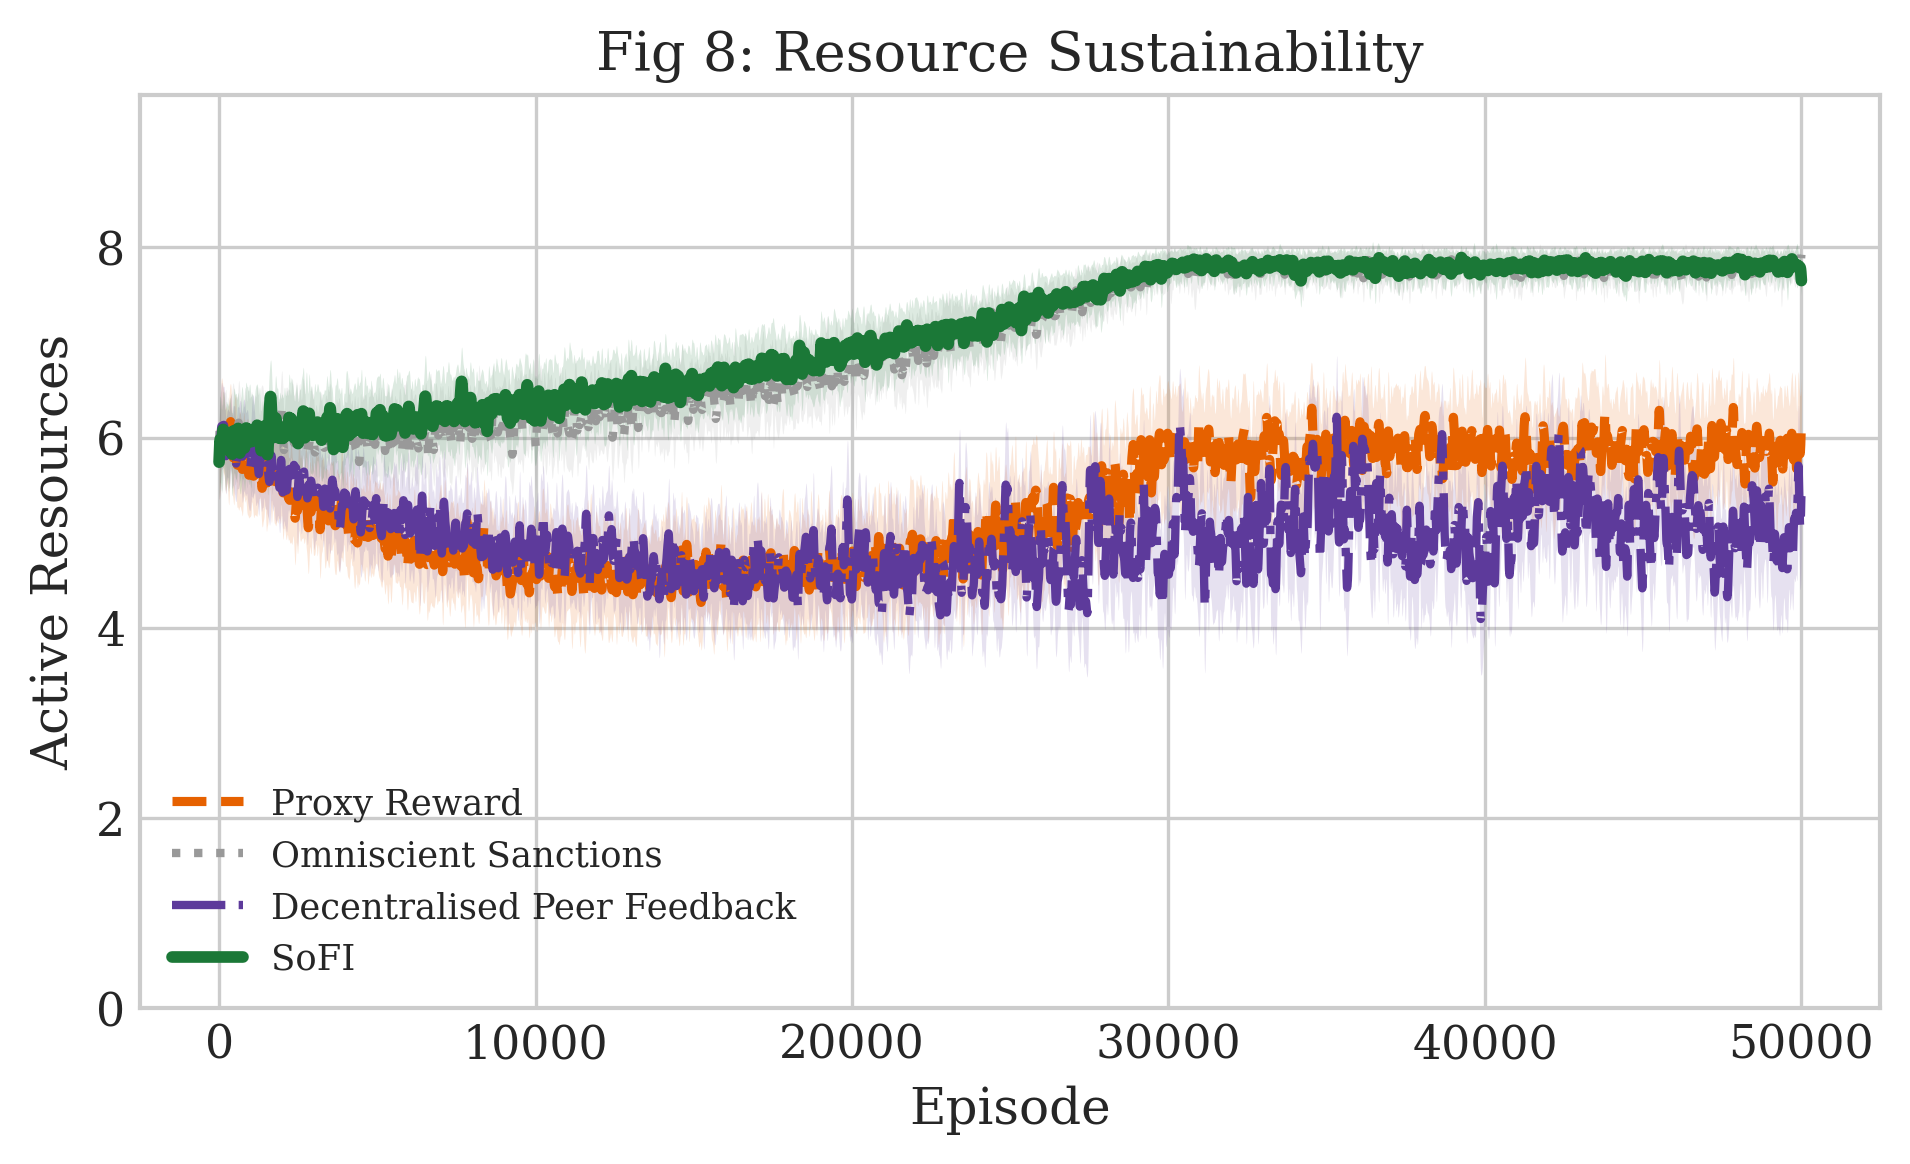
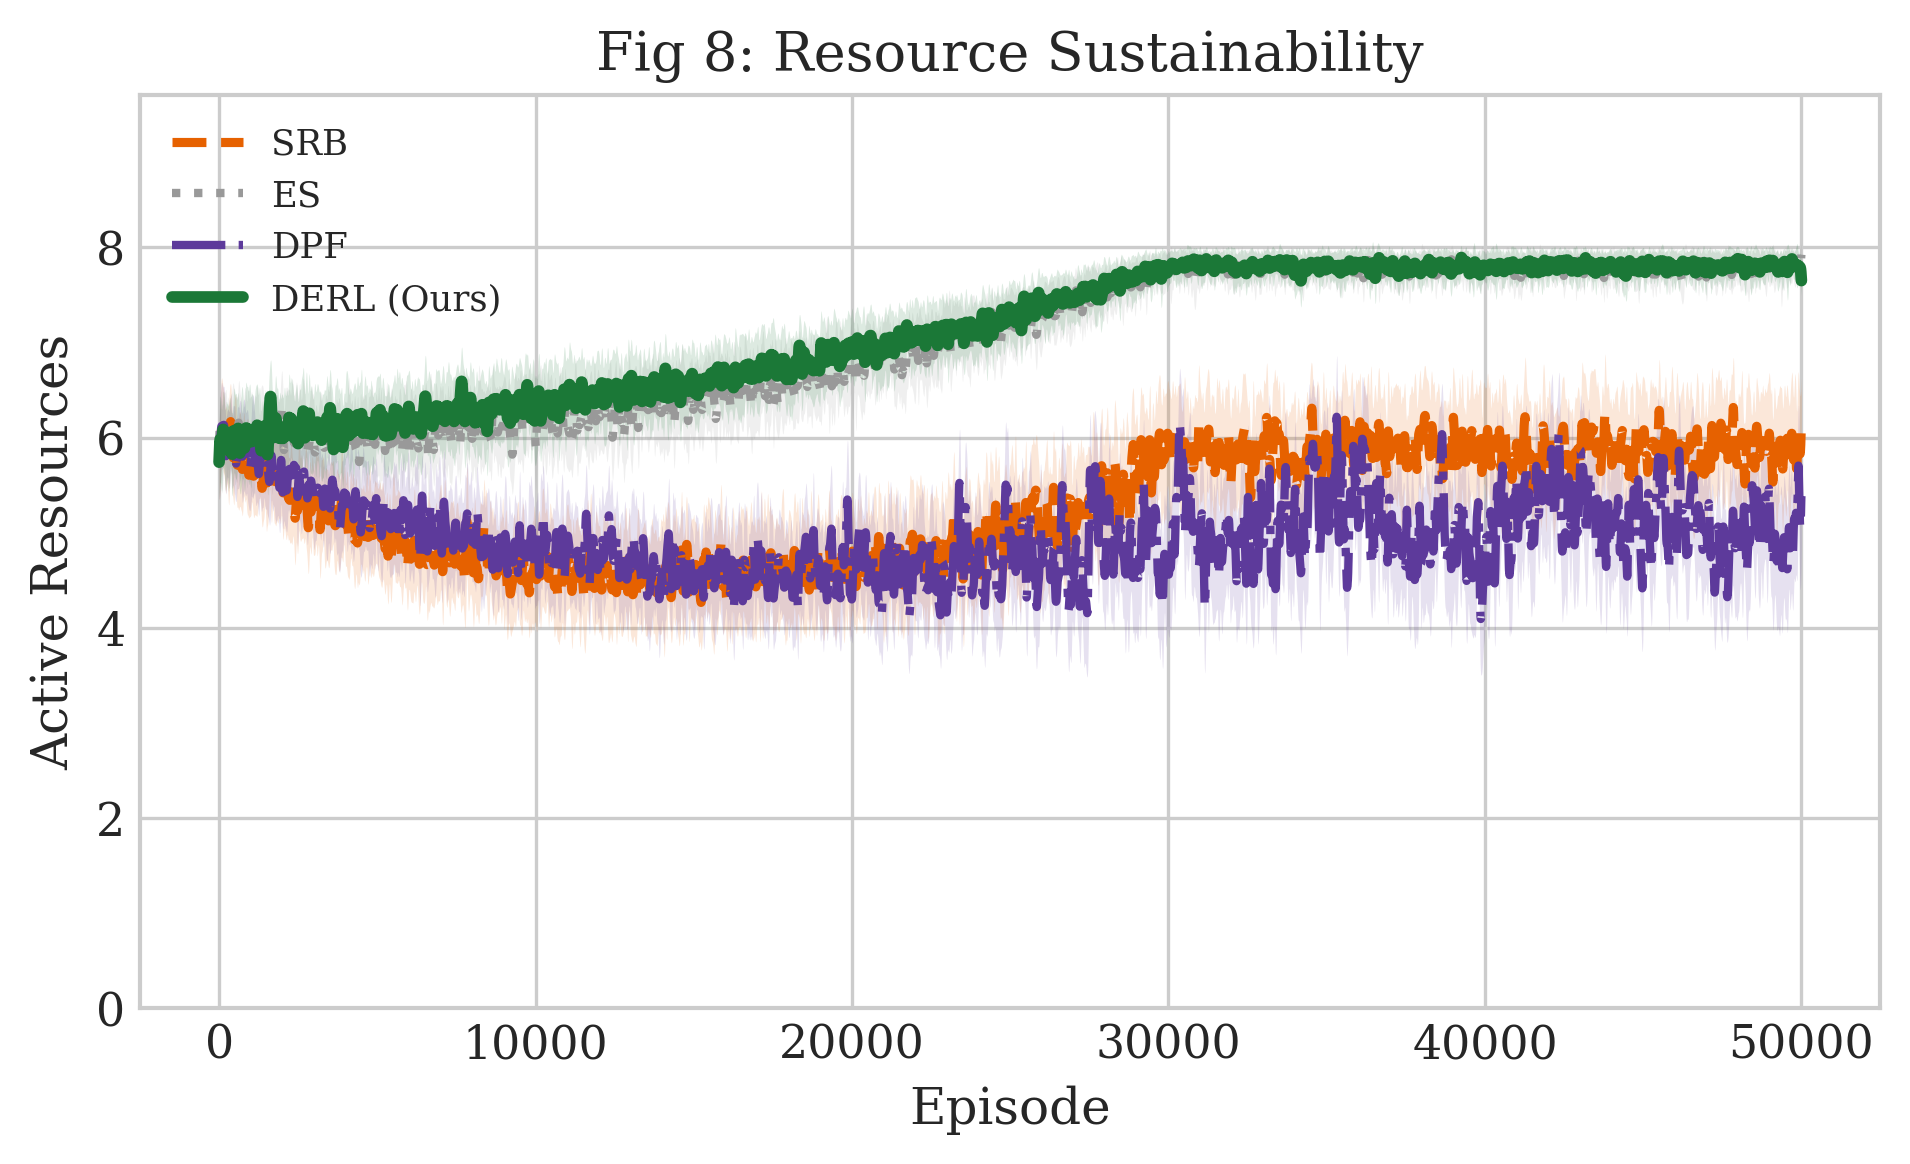
New experiments run, the names of the methods are changed

diff --git a/main_v3.py b/main_v3.py
@@ -486,11 +486,11 @@ CL = {"baseline": "#E66100", "hardcoded": "#999999",
       "emergent": "#5D3A9B", "full": "#1B7837", "collusion": "#D62728"}
 
 # Updated Nomenclature
-LB = {"baseline": "Proxy Reward",
-      "hardcoded": "Omniscient Sanctions",
-      "emergent": "Decentralised Peer Feedback",
-      "full": "SoFI",
-      "collusion": "Adversarial Coalition"}
+LB = {"baseline": "SRB", # Static Reward Baseline
+      "hardcoded": "ES", # Exogenous Sanctions
+      "emergent": "DPF", # Decentralised Peer Feedback
+      "full": "DERL (Ours)", # Dual-Enforcement Reinforcement Learning
+      "collusion": "AC"} # Adversarial Coalition
 
 ST = {"baseline": dict(ls="--", lw=2.2),
       "hardcoded": dict(ls=":", lw=2),
@@ -744,3 +744,20 @@ if __name__ == "__main__":
         print(f"  {c:<16} " +
               " ".join(f"{v:>5.3f}" for v in vals) +
               f"  {np.mean(d['res'][s]):>5.1f} res")
+        
+
+
+
+
+"""Total runtime: 14411s
+
+==========================================================================================
+  SUMMARY (last 100 episodes)
+==========================================================================================
+  Condition          T r u t h         L i e       G a t h       M i n e       P u n       V e r     C o o p     O r a c       R e p
+  ----------------------------------------------------------------------------------
+  baseline         0.006 0.864 0.006 0.067 0.005 0.005 0.000 0.192 7.480    5.9 res
+  hardcoded        0.017 0.005 0.863 0.006 0.005 0.005 0.000 0.567 0.098    7.8 res
+  emergent         0.275 0.165 0.115 0.076 0.048 0.044 0.034 0.612 3.018    5.3 res
+  full             0.170 0.005 0.755 0.006 0.008 0.005 0.269 0.883 0.060    7.8 res
+  collusion        0.272 0.084 0.041 0.105 0.052 0.061 0.004 0.597 3.820    4.5 res"""
